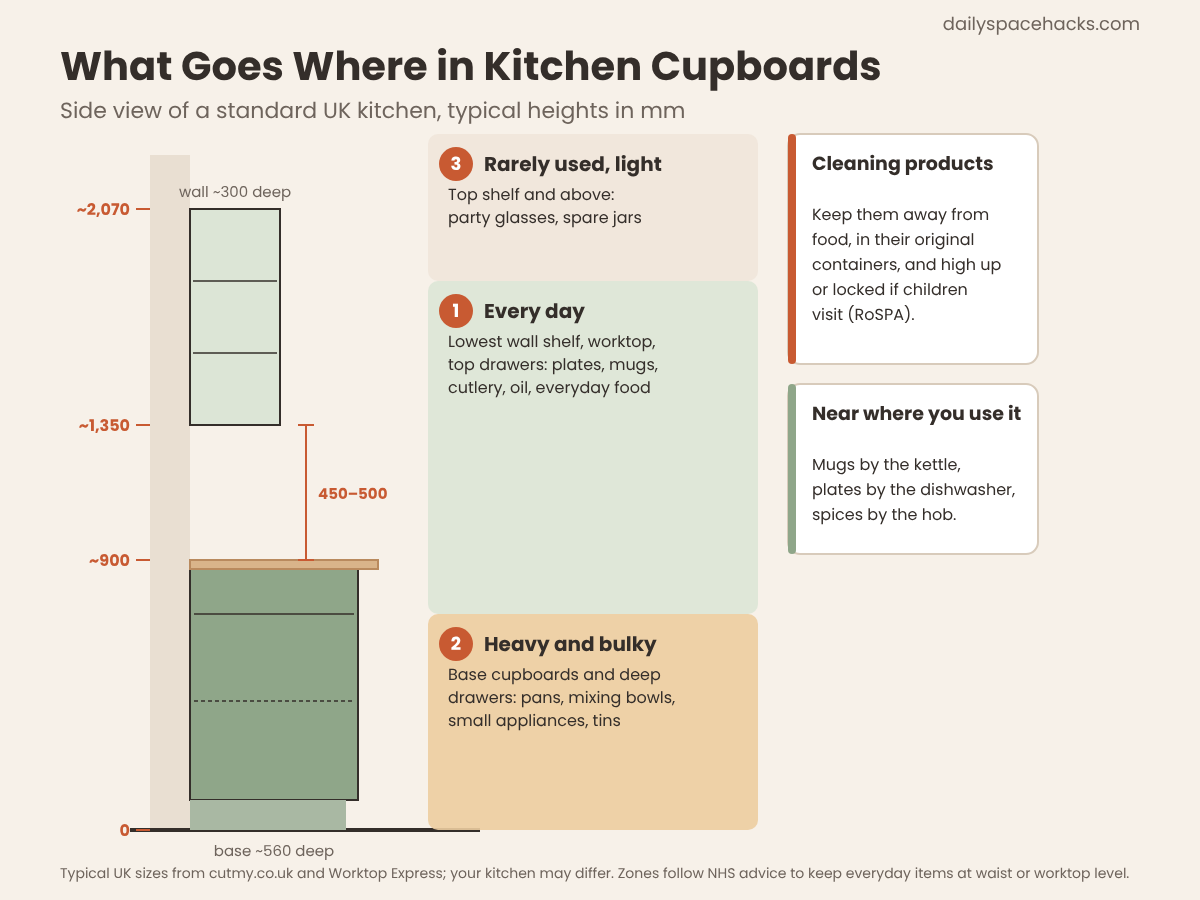
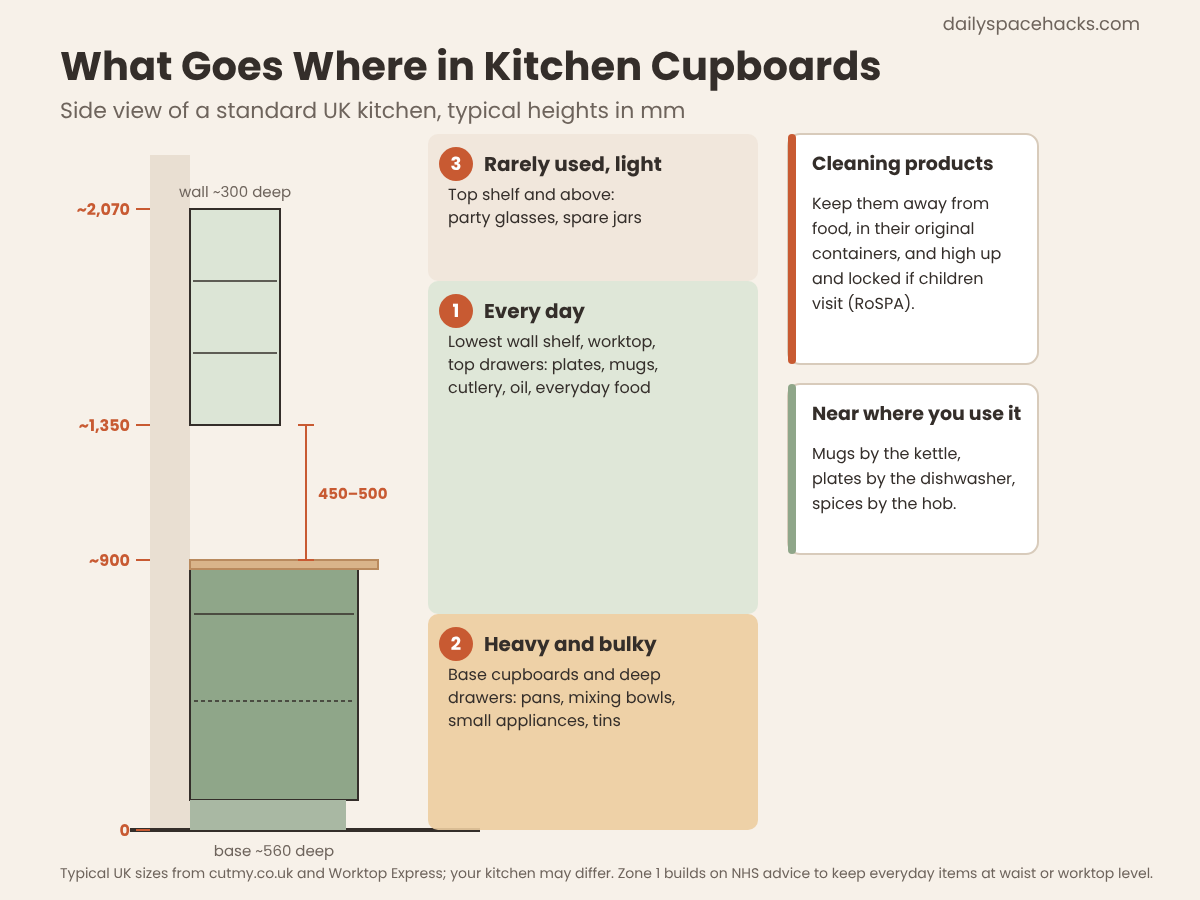
Schedule 3282 kitchen cupboards (UK, F1) Nov 2; pins CSV-63; robe images
Claude-Session: https://claude.ai/code/session_015bHY4eNJzsj1XRjde6uJvz

Changed region(s): [[0.6783, 0.2178, 0.8325, 0.3733], [0.6783, 0.4978, 0.8633, 0.5911], [0.555, 0.9644, 0.9558, 0.9956]]

diff --git a/tools/kitchen-cupboards/content.html b/tools/kitchen-cupboards/content.html
@@ -1,0 +1,181 @@
+<!-- wp:paragraph -->
+<p>To organise kitchen cupboards, empty one run of cupboards at a time, get rid of what you do not use, then put things back by height and by where you use them: everyday items between waist and shoulder height, heavy pans and appliances low down, and rarely used things on the top shelf. A shelf riser, a pan lid rack and a turntable fix most of the space problems, and the riser and lid holders below cost £7 and £12 at the time of writing.</p>
+<!-- /wp:paragraph -->
+
+<!-- wp:paragraph -->
+<p>Doing it properly takes about an afternoon in a typical small UK kitchen. Start with the diagram: it shows the standard heights most British kitchens are built to, and which zone each kind of item belongs in.</p>
+<!-- /wp:paragraph -->
+
+<!-- wp:image {"id":3276,"sizeSlug":"full","linkDestination":"none"} -->
+<figure class="wp-block-image size-full"><img src="https://dailyspacehacks.com/wp-content/uploads/2026/10/how-to-organise-kitchen-cupboards-01-organised-cupboards.jpg" alt="British kitchen with sage green Shaker base units, an oak worktop and open wall cupboards with glass jars, mugs, bowls on wire shelf risers and stacked plates" class="wp-image-3276"/></figure>
+<!-- /wp:image -->
+
+<!-- wp:heading -->
+<h2 class="wp-block-heading">Where Everything Should Go</h2>
+<!-- /wp:heading -->
+
+<!-- wp:paragraph -->
+<p>Most UK kitchens follow the same basic sizes. The standard worktop is <a href="https://www.worktop-express.co.uk/what-is-the-average-kitchen-worktop-height-and-depth/" target="_blank" rel="noopener">900mm</a> high, base units are about 560mm deep, and wall units are about 300mm deep and hung with their <a href="https://cutmy.co.uk/ideas-advice/kitchen-unit-sizes" target="_blank" rel="noopener">bottom edge 450-500mm above the worktop</a>, according to the kitchen supplier cutmy.co.uk. That puts the lowest wall shelf at roughly 1,350 to 1,400 mm from the floor, which makes it the easiest wall shelf to reach.</p>
+<!-- /wp:paragraph -->
+
+<!-- wp:html -->
+<figure class="dsh-diagram"><svg xmlns="http://www.w3.org/2000/svg" viewBox="0 0 1200 900" font-family="Poppins, sans-serif" role="img" aria-labelledby="kc-t kc-d"><title id="kc-t">Kitchen cupboard zones by height</title><desc id="kc-d">Side view of a standard UK kitchen wall with typical sizes. Worktop at about 900 mm. Base units about 560 mm deep below it. Wall units start about 450 to 500 mm above the worktop, so their bottom shelf sits at about 1350 to 1400 mm, and a 720 mm wall unit reaches about 2070 mm. Zone 1, everyday items: top drawers, the worktop and the lowest wall shelf, roughly between waist and shoulder height. Zone 2, heavy and bulky items: base cupboards and deep drawers. Zone 3, rarely used light items: the top wall shelf and above. Cleaning products high up and locked if children visit, away from food.</desc><rect width="1200" height="900" fill="#F7F1E9"/><text x="60" y="80" font-size="40" font-weight="700" fill="#342E2A">What Goes Where in Kitchen Cupboards</text><text x="60" y="118" font-size="22" fill="#6E645C">Side view of a standard UK kitchen, typical heights in mm</text><text x="1140" y="30" font-size="18" fill="#6E645C" text-anchor="end">dailyspacehacks.com</text><rect x="150" y="155.0" width="40" height="675.0" fill="#E9DFD2"/><line x1="130" y1="830" x2="480" y2="830" stroke="#342E2A" stroke-width="4"/><rect x="190" y="569.0" width="168.0" height="231.0" fill="#8FA689" stroke="#342E2A" stroke-width="2"/><rect x="190" y="800.0" width="156.0" height="30.0" fill="#A9B8A3"/><rect x="190" y="560.0" width="188.0" height="9.0" fill="#D9B48A" stroke="#B98A5E" stroke-width="2"/><line x1="194" y1="614.0" x2="354.0" y2="614.0" stroke="#342E2A" stroke-width="1.5"/><line x1="194" y1="701.0" x2="354.0" y2="701.0" stroke="#342E2A" stroke-width="1.5" stroke-dasharray="4 3"/><rect x="190" y="209.0" width="90.0" height="216.0" fill="#DCE5D6" stroke="#342E2A" stroke-width="2"/><line x1="193" y1="353.0" x2="277.0" y2="353.0" stroke="#342E2A" stroke-width="1.5"/><line x1="193" y1="281.0" x2="277.0" y2="281.0" stroke="#342E2A" stroke-width="1.5"/><rect x="428.0" y="134.0" width="330" height="147.0" rx="10" fill="#EFE6DA" opacity="0.9"/><circle cx="456.0" cy="164.0" r="17" fill="#C85A32"/><text x="456.0" y="170.0" font-size="18" font-weight="700" fill="#fff" text-anchor="middle">3</text><text x="484.0" y="171.0" font-size="20" font-weight="700" fill="#342E2A">Rarely used, light</text><text x="448.0" y="200.0" font-size="16" fill="#342E2A">Top shelf and above:</text><text x="448.0" y="223.0" font-size="16" fill="#342E2A">party glasses, spare jars</text><rect x="428.0" y="281.0" width="330" height="333.0" rx="10" fill="#DCE5D6" opacity="0.9"/><circle cx="456.0" cy="311.0" r="17" fill="#C85A32"/><text x="456.0" y="317.0" font-size="18" font-weight="700" fill="#fff" text-anchor="middle">1</text><text x="484.0" y="318.0" font-size="20" font-weight="700" fill="#342E2A">Every day</text><text x="448.0" y="347.0" font-size="16" fill="#342E2A">Lowest wall shelf, worktop,</text><text x="448.0" y="370.0" font-size="16" fill="#342E2A">top drawers: plates, mugs,</text><text x="448.0" y="393.0" font-size="16" fill="#342E2A">cutlery, oil, everyday food</text><rect x="428.0" y="614.0" width="330" height="216.0" rx="10" fill="#ECCDA0" opacity="0.9"/><circle cx="456.0" cy="644.0" r="17" fill="#C85A32"/><text x="456.0" y="650.0" font-size="18" font-weight="700" fill="#fff" text-anchor="middle">2</text><text x="484.0" y="651.0" font-size="20" font-weight="700" fill="#342E2A">Heavy and bulky</text><text x="448.0" y="680.0" font-size="16" fill="#342E2A">Base cupboards and deep</text><text x="448.0" y="703.0" font-size="16" fill="#342E2A">drawers: pans, mixing bowls,</text><text x="448.0" y="726.0" font-size="16" fill="#342E2A">small appliances, tins</text><line x1="136" y1="209.0" x2="150" y2="209.0" stroke="#C85A32" stroke-width="2"/><text x="130" y="215.0" font-size="16" font-weight="700" fill="#C85A32" text-anchor="end">~2,070</text><line x1="136" y1="425.0" x2="150" y2="425.0" stroke="#C85A32" stroke-width="2"/><text x="130" y="431.0" font-size="16" font-weight="700" fill="#C85A32" text-anchor="end">~1,350</text><line x1="136" y1="560.0" x2="150" y2="560.0" stroke="#C85A32" stroke-width="2"/><text x="130" y="566.0" font-size="16" font-weight="700" fill="#C85A32" text-anchor="end">~900</text><line x1="136" y1="830.0" x2="150" y2="830.0" stroke="#C85A32" stroke-width="2"/><text x="130" y="836.0" font-size="16" font-weight="700" fill="#C85A32" text-anchor="end">0</text><line x1="306.0" y1="425.0" x2="306.0" y2="560.0" stroke="#C85A32" stroke-width="2"/><line x1="298.0" y1="425.0" x2="314.0" y2="425.0" stroke="#C85A32" stroke-width="2"/><line x1="298.0" y1="560.0" x2="314.0" y2="560.0" stroke="#C85A32" stroke-width="2"/><text x="318.0" y="498.5" font-size="15" font-weight="700" fill="#C85A32">450–500</text><text x="274.0" y="856" font-size="15" fill="#6E645C" text-anchor="middle">base ~560 deep</text><text x="235.0" y="197.0" font-size="15" fill="#6E645C" text-anchor="middle">wall ~300 deep</text><rect x="788.0" y="134.0" width="250" height="230" rx="12" fill="#FFFFFF" stroke="#D8CBBB" stroke-width="2"/><rect x="788.0" y="134.0" width="8" height="230" rx="4" fill="#C85A32"/><text x="812.0" y="170.0" font-size="19" font-weight="700" fill="#342E2A">Cleaning products</text><text x="812.0" y="209.0" font-size="16" font-weight="400" fill="#342E2A">Keep them away from</text><text x="812.0" y="234.0" font-size="16" font-weight="400" fill="#342E2A">food, in their original</text><text x="812.0" y="259.0" font-size="16" font-weight="400" fill="#342E2A">containers, and high up</text><text x="812.0" y="284.0" font-size="16" font-weight="400" fill="#342E2A">and locked if children</text><text x="812.0" y="309.0" font-size="16" font-weight="400" fill="#342E2A">visit (RoSPA).</text><rect x="788.0" y="384.0" width="250" height="170" rx="12" fill="#FFFFFF" stroke="#D8CBBB" stroke-width="2"/><rect x="788.0" y="384.0" width="8" height="170" rx="4" fill="#8FA689"/><text x="812.0" y="420.0" font-size="19" font-weight="700" fill="#342E2A">Near where you use it</text><text x="812.0" y="459.0" font-size="16" font-weight="400" fill="#342E2A">Mugs by the kettle,</text><text x="812.0" y="484.0" font-size="16" font-weight="400" fill="#342E2A">plates by the dishwasher,</text><text x="812.0" y="509.0" font-size="16" font-weight="400" fill="#342E2A">spices by the hob.</text><text x="60" y="878" font-size="14" fill="#6E645C">Typical UK sizes from cutmy.co.uk and Worktop Express; your kitchen may differ. Zone 1 builds on NHS advice to keep everyday items at waist or worktop level.</text></svg><figcaption>Kitchen cupboard zones by height: everyday items in the middle, heavy items low, rarely used items high, cleaning products high or locked and away from food.</figcaption></figure>
+<!-- /wp:html -->
+
+<!-- wp:paragraph -->
+<p>The rule behind the zones is simple. An NHS occupational therapy leaflet advises people to <a href="https://www.ouh.nhs.uk/media/lkonor55/115811kitchen.pdf" target="_blank" rel="noopener">store everyday items at waist or countertop level</a>, and Ireland's Health and Safety Authority, in its workplace manual handling guidance, recommends keeping <a href="https://hsa.ie/eng/education/managing_safety_and_health_in_schools/new_guidelines_files/manual-handling-no-13.pdf" target="_blank" rel="noopener">heavier items</a> on middle shelves rather than on the floor or above shoulder height. Plates you use three times a day should never need a step stool.</p>
+<!-- /wp:paragraph -->
+
+<!-- wp:heading -->
+<h2 class="wp-block-heading">Step 1: Empty One Run of Cupboards at a Time</h2>
+<!-- /wp:heading -->
+
+<!-- wp:paragraph -->
+<p>When you organise kitchen cupboards, do not empty the whole kitchen at once, or you will still be surrounded by saucepans at dinner time. Pick one run, such as the wall cupboards above the kettle, take everything out and wipe the shelves. Check the shelf pins while the cupboard is empty: moving an adjustable shelf up or down a few holes is often all you need to fit an extra row of mugs.</p>
+<!-- /wp:paragraph -->
+
+<!-- wp:heading -->
+<h2 class="wp-block-heading">Step 2: Sort Into Groups and Let Go</h2>
+<!-- /wp:heading -->
+
+<!-- wp:image {"id":3277,"sizeSlug":"full","linkDestination":"none"} -->
+<figure class="wp-block-image size-full"><img src="https://dailyspacehacks.com/wp-content/uploads/2026/10/how-to-organise-kitchen-cupboards-02-sorted-worktop.jpg" alt="Oak worktop with the contents of a kitchen cupboard sorted into groups and a give-away box, in front of an empty open cupboard" class="wp-image-3277"/></figure>
+<!-- /wp:image -->
+
+<!-- wp:paragraph -->
+<p>Put everything on the worktop in groups: food, crockery, baking and roasting trays, gadgets, and a box for things to give away. Professional organiser Vicky Silverthorn told Ideal Home the point is to <a href="https://www.idealhome.co.uk/kitchen/kitchen-ideas/how-to-organise-kitchen-cabinets-288669" target="_blank" rel="noopener">see what you have, what you actually use</a>. Duplicates, chipped mugs, the third garlic press and gadgets you have not touched for a year can go. Check dates on food as you sort. GOV.UK explains that a best before date is about quality, while a use by date means the food is <a href="https://www.gov.uk/understanding-food-labelling/best-before-and-use-by-dates" target="_blank" rel="noopener">no longer safe to eat</a> after it.</p>
+<!-- /wp:paragraph -->
+
+<!-- wp:heading -->
+<h2 class="wp-block-heading">Step 3: Give Every Group a Home Near Where You Use It</h2>
+<!-- /wp:heading -->
+
+<!-- wp:paragraph -->
+<p>Zoning means storing things next to the job they are used for. Kitchen Door Workshop suggests you <a href="https://www.kitchendoorworkshop.co.uk/news/organise-your-kitchen-5-zones/" target="_blank" rel="noopener">store your crockery and glassware close to your sink or dishwasher</a>, and organiser Kathryn Lord told Ideal Home to keep herbs and spices near the hob. In a typical small kitchen that gives you four zones:</p>
+<!-- /wp:paragraph -->
+
+<!-- wp:list -->
+<ul class="wp-block-list"><!-- wp:list-item -->
+<li><strong>Washing up:</strong> plates, bowls and glasses in the wall cupboard nearest the dishwasher or sink.</li>
+<!-- /wp:list-item -->
+<!-- wp:list-item -->
+<li><strong>Cooking:</strong> pans, oils, utensils and spices next to the hob and oven.</li>
+<!-- /wp:list-item -->
+<!-- wp:list-item -->
+<li><strong>Prep:</strong> chopping boards, knives, mixing bowls and scales by your longest stretch of worktop.</li>
+<!-- /wp:list-item -->
+<!-- wp:list-item -->
+<li><strong>Drinks:</strong> mugs, tea, coffee and the sugar above or beside the kettle.</li>
+<!-- /wp:list-item --></ul>
+<!-- /wp:list -->
+
+<!-- wp:paragraph -->
+<p>For smaller items in the top drawers, our guide to <a href="https://dailyspacehacks.com/how-to-organize-kitchen-drawers/">organising kitchen drawers</a> shows how to divide cutlery and utensils.</p>
+<!-- /wp:paragraph -->
+
+<!-- wp:heading -->
+<h2 class="wp-block-heading">Step 4: Put Heavy Things Low</h2>
+<!-- /wp:heading -->
+
+<!-- wp:image {"id":3278,"sizeSlug":"full","linkDestination":"none"} -->
+<figure class="wp-block-image size-full"><img src="https://dailyspacehacks.com/wp-content/uploads/2026/10/how-to-organise-kitchen-cupboards-03-pan-drawer.jpg" alt="Deep pan drawer with nested saucepans, an upright frying pan and glass lids in a wire lid rack" class="wp-image-3278"/></figure>
+<!-- /wp:image -->
+
+<!-- wp:paragraph -->
+<p>Saucepans, casserole dishes, the slow cooker and bags of potatoes belong in the base cupboards or deep drawers. Nest saucepans by size and stand frying pans or lids upright so you can lift one out without moving the rest. A set of three <a href="https://www.dunelm.com/product/joseph-joseph-set-of-3-pan-lid-holders-1000295274" target="_blank" rel="noopener">pan lid holders costs £12 at Dunelm</a> and can be fixed inside a cupboard door or a deep drawer; measure the gap between the door and the shelves before you fit anything to a door, so it still closes. If plastic tubs are the problem, our guide on <a href="https://dailyspacehacks.com/how-to-organize-tupperware/">how to organise food containers</a> sorts out the lids.</p>
+<!-- /wp:paragraph -->
+
+<!-- wp:heading -->
+<h2 class="wp-block-heading">Step 5: Double the Height of Your Shelves</h2>
+<!-- /wp:heading -->
+
+<!-- wp:paragraph -->
+<p>Most cupboard shelves waste the space above a single stack of plates. A shelf riser creates a second level, so bowls sit above the plates instead of on top of them. IKEA UK lists a VARIERA <a href="https://www.ikea.com/gb/en/p/-80542961/" target="_blank" rel="noopener">shelf insert for £7</a> at 45.5 x 29 x 16 cm. Measure the inside depth of your wall cupboards first: standard units are about 300mm deep from the outside, so a 29 cm insert may not fit. IKEA sells smaller sizes too, so check the depth before you buy. Tins can go on a stepped riser so you can read every label at once.</p>
+<!-- /wp:paragraph -->
+
+<!-- wp:heading -->
+<h2 class="wp-block-heading">Step 6: Fix the Corner Cupboard</h2>
+<!-- /wp:heading -->
+
+<!-- wp:image {"id":3279,"sizeSlug":"full","linkDestination":"none"} -->
+<figure class="wp-block-image size-full"><img src="https://dailyspacehacks.com/wp-content/uploads/2026/10/how-to-organise-kitchen-cupboards-04-turntable-riser.jpg" alt="Turntable holding oil bottles and jars next to a two-tier wire riser with tins inside a kitchen cupboard" class="wp-image-3279"/></figure>
+<!-- /wp:image -->
+
+<!-- wp:paragraph -->
+<p>Blind corner cupboards are where things get lost. The cheapest fix is a turntable on the shelf, which brings bottles and jars from the back to the front with a spin. If you are willing to spend more, Magnet explains the options: carousels, Le Mans units with two kidney-shaped shelves that glide out, and magic corners that pull the back shelves forward, with carousel baskets that <a href="https://www.magnet.co.uk/blog/kitchen-corner-unit-ideas/" target="_blank" rel="noopener">typically</a> take up to 25 kg each. As a price guide, IKEA's UTRUSTA corner carousel is <a href="https://www.ikea.com/gb/en/p/-20596787/" target="_blank" rel="noopener">£90</a> and fits IKEA's own METOD 88 x 60 cm corner base unit. For deep shelves and tall food cupboards, see our guide to <a href="https://dailyspacehacks.com/how-to-organize-a-pantry-with-deep-shelves/">organising a pantry with deep shelves</a>.</p>
+<!-- /wp:paragraph -->
+
+<!-- wp:heading -->
+<h2 class="wp-block-heading">Step 7: Keep Food in Date and Cleaning Products Apart</h2>
+<!-- /wp:heading -->
+
+<!-- wp:paragraph -->
+<p>Put new food behind the old so the oldest gets used first. It matters more than it sounds: WRAP estimates, using 2021 data, that food waste <a href="https://wrap.ngo/media-centre/press-releases/urgent-action-needed-scale-tackle-food-waste-our-homes" target="_blank" rel="noopener">costs a four-person household around £1,000 per year</a>. Clear, square containers for pasta, rice and cereal save space and show you when you are running low; our <a href="https://dailyspacehacks.com/pantry-organization-ideas/">pantry organisation ideas</a> have more ways to store dry food.</p>
+<!-- /wp:paragraph -->
+
+<!-- wp:paragraph -->
+<p>Cleaning products do not belong next to food. RoSPA advises keeping household chemicals, including laundry capsules, <a href="https://rospa.com/Keeping-Kids-Safe-Hub/Poisoning" target="_blank" rel="noopener">out of the sight and reach of children</a>, ideally high up in a locked cupboard, and always in their original containers. If you have space, move them out of the kitchen altogether; our <a href="https://dailyspacehacks.com/small-utility-room-ideas/">small utility room ideas</a> show where they can go instead.</p>
+<!-- /wp:paragraph -->
+
+<!-- wp:heading -->
+<h2 class="wp-block-heading">The Result</h2>
+<!-- /wp:heading -->
+
+<!-- wp:image {"id":3280,"sizeSlug":"full","linkDestination":"none"} -->
+<figure class="wp-block-image size-full"><img src="https://dailyspacehacks.com/wp-content/uploads/2026/10/how-to-organise-kitchen-cupboards-05-before-after.jpg" alt="Before and after of the same kitchen wall cupboards: crammed and mismatched, then tidy with jars, a row of mugs and bowls on risers above plates" class="wp-image-3280"/></figure>
+<!-- /wp:image -->
+
+<!-- wp:paragraph -->
+<p>This illustration shows the steps above applied to two wall cupboards: the mugs are in one row, dry food is in matching jars, and shelf risers put the bowls above the plates.</p>
+<!-- /wp:paragraph -->
+
+<!-- wp:heading -->
+<h2 class="wp-block-heading">If Your Kitchen Is Different</h2>
+<!-- /wp:heading -->
+
+<!-- wp:list -->
+<ul class="wp-block-list"><!-- wp:list-item -->
+<li><strong>No wall cupboards:</strong> use open shelves for everyday plates and glasses, and keep the base cupboards for everything else.</li>
+<!-- /wp:list-item -->
+<!-- wp:list-item -->
+<li><strong>Renting:</strong> shelf risers, turntables and freestanding lid racks all go in without screws.</li>
+<!-- /wp:list-item -->
+<!-- wp:list-item -->
+<li><strong>Very small kitchen:</strong> move rarely used items, such as the roasting tin or party glasses, to another room, and use the walls; our <a href="https://dailyspacehacks.com/kitchen-storage-ideas/">kitchen storage ideas</a> and <a href="https://dailyspacehacks.com/kitchen-counter-organization/">worktop organisation tips</a> help.</li>
+<!-- /wp:list-item -->
+<!-- wp:list-item -->
+<li><strong>In the US?</strong> Our guide to <a href="https://dailyspacehacks.com/how-to-organize-kitchen-cabinets/">organizing kitchen cabinets</a> uses American sizes.</li>
+<!-- /wp:list-item --></ul>
+<!-- /wp:list -->
+
+<!-- wp:heading -->
+<h2 class="wp-block-heading">Kitchen Cupboard Questions</h2>
+<!-- /wp:heading -->
+
+<!-- wp:heading {"level":3} -->
+<h3 class="wp-block-heading">What is the best way to organise kitchen cupboards?</h3>
+<!-- /wp:heading -->
+
+<!-- wp:paragraph -->
+<p>The best way to organise kitchen cupboards is to store things by how often you use them and where you use them. Keep everyday items between waist and shoulder height near the sink, hob or kettle, heavy pans in base cupboards, and rarely used things on the top shelf. Then add shelf risers and a turntable so nothing is hidden behind something else.</p>
+<!-- /wp:paragraph -->
+
+<!-- wp:heading {"level":3} -->
+<h3 class="wp-block-heading">What should not be stored in kitchen cupboards?</h3>
+<!-- /wp:heading -->
+
+<!-- wp:paragraph -->
+<p>Keep cleaning chemicals and laundry capsules away from food, ideally high up in a locked cupboard if children visit. Do not store heavy items above shoulder height. Food that says keep refrigerated after opening belongs in the fridge, which GOV.UK says should be at 5°C or below, not back in the cupboard.</p>
+<!-- /wp:paragraph -->
+
+<!-- wp:heading {"level":3} -->
+<h3 class="wp-block-heading">How do I organise a kitchen with no space?</h3>
+<!-- /wp:heading -->
+
+<!-- wp:paragraph -->
+<p>Start by removing anything you use less than once a month and storing it elsewhere. Then use height: shelf risers in wall cupboards, lids on a rack, pans nested by size. A turntable in a corner cupboard and hooks under a shelf add space without building anything.</p>
+<!-- /wp:paragraph -->
+
+<!-- wp:paragraph {"className":"dsh-ai-note","fontSize":"small"} -->
+<p class="dsh-ai-note has-small-font-size"><em>How this guide was made: researched and written with the help of AI tools, fact-checked against trusted sources and published by Mohamed Elber. Images are AI-generated illustrations. See our <a href="https://dailyspacehacks.com/editorial-policy/">Editorial Policy</a>.</em></p>
+<!-- /wp:paragraph -->

diff --git a/tools/kitchen-cupboards/build.py b/tools/kitchen-cupboards/build.py
@@ -17,17 +17,17 @@ SRC={
 "kdw":"https://www.kitchendoorworkshop.co.uk/news/organise-your-kitchen-5-zones/"}
 def SR(k,t): return ext(SRC[k],t)
 
-p(f"To organise kitchen cupboards, empty one run of cupboards at a time, get rid of what you do not use, then put things back by height and by where you use them: everyday items between waist and shoulder height, heavy pans and appliances low down, and rarely used things on the top shelf. A shelf riser, a pan lid rack and a turntable fix most of the space problems, and none of them costs more than about £12.")
-p("The steps below take an afternoon for a typical small UK kitchen. Start with the diagram: it shows the standard heights most British kitchens are built to, and which zone each kind of item belongs in.")
+p(f"To organise kitchen cupboards, empty one run of cupboards at a time, get rid of what you do not use, then put things back by height and by where you use them: everyday items between waist and shoulder height, heavy pans and appliances low down, and rarely used things on the top shelf. A shelf riser, a pan lid rack and a turntable fix most of the space problems, and the riser and lid holders below cost £7 and £12 at the time of writing.")
+p("Doing it properly takes about an afternoon in a typical small UK kitchen. Start with the diagram: it shows the standard heights most British kitchens are built to, and which zone each kind of item belongs in.")
 img(1)
 
 h2("Where Everything Should Go")
-p(f"Most UK kitchens follow the same basic sizes. The standard worktop is {SR('we','900mm')} high, base units are about 560 mm deep, and wall units are about 300 mm deep and hung with their {SR('cut','bottom edge 450-500mm above the worktop')}, according to the kitchen supplier cutmy.co.uk. That puts the lowest wall shelf at roughly 1,350 to 1,400 mm from the floor, which is the easiest shelf in the room to reach.")
+p(f"Most UK kitchens follow the same basic sizes. The standard worktop is {SR('we','900mm')} high, base units are about 560mm deep, and wall units are about 300mm deep and hung with their {SR('cut','bottom edge 450-500mm above the worktop')}, according to the kitchen supplier cutmy.co.uk. That puts the lowest wall shelf at roughly 1,350 to 1,400 mm from the floor, which makes it the easiest wall shelf to reach.")
 diagram(open('z.svg').read(),"Kitchen cupboard zones by height: everyday items in the middle, heavy items low, rarely used items high, cleaning products high or locked and away from food.")
-p(f"The rule behind the zones is simple. An NHS occupational therapy leaflet advises people to {SR('nhs','store everyday items at waist or countertop level')}, and Ireland's Health and Safety Authority recommends keeping {SR('hsa','heavier items')} on middle shelves rather than on the floor or above shoulder height. Plates you use three times a day should never need a step stool.")
+p(f"The rule behind the zones is simple. An NHS occupational therapy leaflet advises people to {SR('nhs','store everyday items at waist or countertop level')}, and Ireland's Health and Safety Authority, in its workplace manual handling guidance, recommends keeping {SR('hsa','heavier items')} on middle shelves rather than on the floor or above shoulder height. Plates you use three times a day should never need a step stool.")
 
 h2("Step 1: Empty One Run of Cupboards at a Time")
-p("Do not empty the whole kitchen at once, or you will still be surrounded by saucepans at dinner time. Pick one run, such as the wall cupboards above the kettle, take everything out and wipe the shelves. Check the shelf pins while the cupboard is empty: moving an adjustable shelf up or down a few holes is often all you need to fit an extra row of mugs.")
+p("When you organise kitchen cupboards, do not empty the whole kitchen at once, or you will still be surrounded by saucepans at dinner time. Pick one run, such as the wall cupboards above the kettle, take everything out and wipe the shelves. Check the shelf pins while the cupboard is empty: moving an adjustable shelf up or down a few holes is often all you need to fit an extra row of mugs.")
 
 h2("Step 2: Sort Into Groups and Let Go")
 img(2)
@@ -46,19 +46,19 @@ img(3)
 p(f"Saucepans, casserole dishes, the slow cooker and bags of potatoes belong in the base cupboards or deep drawers. Nest saucepans by size and stand frying pans or lids upright so you can lift one out without moving the rest. A set of three {SR('dun','pan lid holders costs £12 at Dunelm')} and can be fixed inside a cupboard door or a deep drawer; measure the gap between the door and the shelves before you fit anything to a door, so it still closes. If plastic tubs are the problem, our guide on {a('how-to-organize-tupperware','how to organise food containers')} sorts out the lids.")
 
 h2("Step 5: Double the Height of Your Shelves")
-p(f"Most cupboard shelves waste the space above a single stack of plates. A shelf riser creates a second level, so bowls sit above the plates instead of on top of them. IKEA UK lists a VARIERA {SR('var','shelf insert for £7')} at 45.5 x 29 x 16 cm, with smaller sizes available. Measure the inside depth of your wall cupboards first, because many are only about 300 mm deep from the outside. Tins can go on a stepped riser so you can read every label at once.")
+p(f"Most cupboard shelves waste the space above a single stack of plates. A shelf riser creates a second level, so bowls sit above the plates instead of on top of them. IKEA UK lists a VARIERA {SR('var','shelf insert for £7')} at 45.5 x 29 x 16 cm. Measure the inside depth of your wall cupboards first: standard units are about 300mm deep from the outside, so a 29 cm insert may not fit. IKEA sells smaller sizes too, so check the depth before you buy. Tins can go on a stepped riser so you can read every label at once.")
 
 h2("Step 6: Fix the Corner Cupboard")
 img(4)
-p(f"Blind corner cupboards are where things get lost. The cheapest fix is a turntable on the shelf, which brings bottles and jars from the back to the front with a spin. If you are willing to spend more, Magnet explains the options: carousels, LeMans units with two kidney-shaped shelves that swing out, and magic corners that pull the back shelves forward, with carousel baskets that {SR('mag','typically')} take up to 25 kg each. As a price guide, IKEA's UTRUSTA corner carousel is {SR('utr','£90')} and fits its own METOD corner base cabinet. For deep shelves and tall food cupboards, see our guide to {a('how-to-organize-a-pantry-with-deep-shelves','organising a pantry with deep shelves')}.")
+p(f"Blind corner cupboards are where things get lost. The cheapest fix is a turntable on the shelf, which brings bottles and jars from the back to the front with a spin. If you are willing to spend more, Magnet explains the options: carousels, Le Mans units with two kidney-shaped shelves that glide out, and magic corners that pull the back shelves forward, with carousel baskets that {SR('mag','typically')} take up to 25 kg each. As a price guide, IKEA's UTRUSTA corner carousel is {SR('utr','£90')} and fits IKEA's own METOD 88 x 60 cm corner base unit. For deep shelves and tall food cupboards, see our guide to {a('how-to-organize-a-pantry-with-deep-shelves','organising a pantry with deep shelves')}.")
 
 h2("Step 7: Keep Food in Date and Cleaning Products Apart")
-p(f"Put new food behind the old so the oldest gets used first. It matters more than it sounds: WRAP estimates food waste {SR('wrap','costs a four-person household around £1,000 per year')}. Clear, square containers for pasta, rice and cereal save space and show you when you are running low; our {a('pantry-organization-ideas','pantry organisation ideas')} have more ways to store dry food.")
+p(f"Put new food behind the old so the oldest gets used first. It matters more than it sounds: WRAP estimates, using 2021 data, that food waste {SR('wrap','costs a four-person household around £1,000 per year')}. Clear, square containers for pasta, rice and cereal save space and show you when you are running low; our {a('pantry-organization-ideas','pantry organisation ideas')} have more ways to store dry food.")
 p(f"Cleaning products do not belong next to food. RoSPA advises keeping household chemicals, including laundry capsules, {SR('rospa','out of the sight and reach of children')}, ideally high up in a locked cupboard, and always in their original containers. If you have space, move them out of the kitchen altogether; our {a('small-utility-room-ideas','small utility room ideas')} show where they can go instead.")
 
 h2("The Result")
 img(5)
-p("The before and after shows the same two wall cupboards. Nothing new was bought apart from two shelf risers: the mugs moved to one row, the food went into matching jars on the top shelf, and the bowls went above the plates.")
+p("This illustration shows the steps above applied to two wall cupboards: the mugs are in one row, dry food is in matching jars, and shelf risers put the bowls above the plates.")
 
 h2("If Your Kitchen Is Different")
 lst(["<strong>No wall cupboards:</strong> use open shelves for everyday plates and glasses, and keep the base cupboards for everything else.",
@@ -68,9 +68,9 @@ lst(["<strong>No wall cupboards:</strong> use open shelves for everyday plates a
 
 h2("Kitchen Cupboard Questions")
 h3("What is the best way to organise kitchen cupboards?")
-p("Store things by how often you use them and where you use them. Keep everyday items between waist and shoulder height near the sink, hob or kettle, heavy pans in base cupboards, and rarely used things on the top shelf. Then add shelf risers and a turntable so nothing is hidden behind something else.")
+p("The best way to organise kitchen cupboards is to store things by how often you use them and where you use them. Keep everyday items between waist and shoulder height near the sink, hob or kettle, heavy pans in base cupboards, and rarely used things on the top shelf. Then add shelf risers and a turntable so nothing is hidden behind something else.")
 h3("What should not be stored in kitchen cupboards?")
-p("Keep cleaning chemicals and laundry capsules away from food, high up or locked if children visit. Do not store heavy items above shoulder height. Food that says keep refrigerated after opening belongs in the fridge, which GOV.UK says should be at 5°C or below, not back in the cupboard.")
+p("Keep cleaning chemicals and laundry capsules away from food, ideally high up in a locked cupboard if children visit. Do not store heavy items above shoulder height. Food that says keep refrigerated after opening belongs in the fridge, which GOV.UK says should be at 5°C or below, not back in the cupboard.")
 h3("How do I organise a kitchen with no space?")
 p("Start by removing anything you use less than once a month and storing it elsewhere. Then use height: shelf risers in wall cupboards, lids on a rack, pans nested by size. A turntable in a corner cupboard and hooks under a shelf add space without building anything.")
 ai_note()

diff --git a/tools/kitchen-cupboards/svg.py b/tools/kitchen-cupboards/svg.py
@@ -6,7 +6,7 @@ def Y(mm): return FL-mm*k
 desc=(f"Side view of a standard UK kitchen wall with typical sizes. Worktop at about 900 mm. Base units about 560 mm deep below it. "
 f"Wall units start about 450 to 500 mm above the worktop, so their bottom shelf sits at about {WB} to {WT+500} mm, and a 720 mm wall unit reaches about {WTOP} mm. "
 "Zone 1, everyday items: top drawers, the worktop and the lowest wall shelf, roughly between waist and shoulder height. "
-"Zone 2, heavy and bulky items: base cupboards and deep drawers. Zone 3, rarely used light items: the top wall shelf and above. Cleaning products in a high or locked cupboard away from food.")
+"Zone 2, heavy and bulky items: base cupboards and deep drawers. Zone 3, rarely used light items: the top wall shelf and above. Cleaning products high up and locked if children visit, away from food.")
 a(f'<svg xmlns="http://www.w3.org/2000/svg" viewBox="0 0 1200 900" font-family="Poppins, sans-serif" role="img" aria-labelledby="kc-t kc-d"><title id="kc-t">Kitchen cupboard zones by height</title><desc id="kc-d">{desc}</desc>')
 a(f'<rect width="1200" height="900" fill="{BG}"/>')
 a(f'<text x="60" y="80" font-size="40" font-weight="700" fill="{T}">What Goes Where in Kitchen Cupboards</text>')
@@ -51,12 +51,12 @@ a(f'<text x="{WALL+WD/2}" y="{Y(WTOP)-12}" font-size="15" fill="{G}" text-anchor
 cx=ZX+ZW+30
 a(f'<rect x="{cx}" y="{Y(WTOP+250)}" width="250" height="230" rx="12" fill="#FFFFFF" stroke="{BR}" stroke-width="2"/>')
 a(f'<rect x="{cx}" y="{Y(WTOP+250)}" width="8" height="230" rx="4" fill="{A}"/>')
-for i,l in enumerate(['Cleaning products','','Keep them away from','food, in their original','containers, and high up','or locked if children','visit (RoSPA).']):
-    a(f'<text x="{cx+24}" y="{Y(WTOP+250)+36+i*25}" font-size="{19 if i==0 else 16}" font-weight="{700 if i==0 else 400}" fill="{T}">{l}</text>')
+for i,l in enumerate(['Cleaning products','Keep them away from','food, in their original','containers, and high up','and locked if children','visit (RoSPA).']):
+    a(f'<text x="{cx+24}" y="{Y(WTOP+250)+36+i*25+(14 if i else 0)}" font-size="{19 if i==0 else 16}" font-weight="{700 if i==0 else 400}" fill="{T}">{l}</text>')
 a(f'<rect x="{cx}" y="{Y(WTOP+250)+250}" width="250" height="170" rx="12" fill="#FFFFFF" stroke="{BR}" stroke-width="2"/>')
 a(f'<rect x="{cx}" y="{Y(WTOP+250)+250}" width="8" height="170" rx="4" fill="{SG}"/>')
-for i,l in enumerate(['Near where you use it','','Mugs by the kettle,','plates by the dishwasher,','spices by the hob.']):
-    a(f'<text x="{cx+24}" y="{Y(WTOP+250)+286+i*25}" font-size="{19 if i==0 else 16}" font-weight="{700 if i==0 else 400}" fill="{T}">{l}</text>')
-a(f'<text x="60" y="878" font-size="14" fill="{G}">Typical UK sizes from cutmy.co.uk and Worktop Express; your kitchen may differ. Zones follow NHS advice to keep everyday items at waist or worktop level.</text>')
+for i,l in enumerate(['Near where you use it','Mugs by the kettle,','plates by the dishwasher,','spices by the hob.']):
+    a(f'<text x="{cx+24}" y="{Y(WTOP+250)+286+i*25+(14 if i else 0)}" font-size="{19 if i==0 else 16}" font-weight="{700 if i==0 else 400}" fill="{T}">{l}</text>')
+a(f'<text x="60" y="878" font-size="14" fill="{G}">Typical UK sizes from cutmy.co.uk and Worktop Express; your kitchen may differ. Zone 1 builds on NHS advice to keep everyday items at waist or worktop level.</text>')
 a('</svg>')
 open('z.svg','w').write(''.join(s))

diff --git a/tools/kitchen-cupboards/pins.py b/tools/kitchen-cupboards/pins.py
@@ -1,0 +1,17 @@
+import sys,os; sys.path.insert(0,'/home/claude/dsh-pins'); os.chdir('/home/claude/dsh-pins')
+from PIL import Image
+from pinh2 import pin_cozy
+O='src/kitchen-cupboards/pins/'; T='tools/cozy/tiles/'; os.makedirs(O,exist_ok=True)
+def cr(src,box,name):
+    p=T+name; im=Image.open(src).convert('RGB'); w,h=im.size
+    im.crop((int(box[0]*w),int(box[1]*h),int(box[2]*w),int(box[3]*h))).save(p); return p
+s='src/kitchen-cupboards/how-to-organise-kitchen-cupboards-'
+H=s+'01-organised-cupboards.jpg'; S=s+'02-sorted-worktop.jpg'; P=s+'03-pan-drawer.jpg'; C=s+'04-turntable-riser.jpg'; BA=s+'05-before-after.jpg'
+PIN=cr('gen/out/kitchen-cupboards/07-pin.png',(0,0,1,1),'kc-pin.png')
+AF=cr(BA,(.5,0,1,.6),'kc-after.png'); BF=cr(BA,(0,0,.5,.6),'kc-before.png')
+pin_cozy([cr(H,(0,0,.5,1),'kc-hl.png'),PIN,cr(H,(.5,0,1,1),'kc-hr.png'),S,P,C,BF,AF,cr(H,(.25,0,.75,.5),'kc-shelf.png')],'7','Steps','How to Organise','Kitchen Cupboards',"what goes where\nin a UK kitchen",
+ ['','','','Sort into groups','Pans low, lids upright','Turntable and riser','Before','After','Bowls above plates'],O+'kc-cozy.jpg',seed=441)
+pin_cozy([BF,cr(PIN,(0,.3,1,1),'kc-pl.png'),AF,C,P,cr(H,(.25,0,.75,.5),'kc-shelf2.png'),S,H,cr(S,(.5,0,1,1),'kc-s2.png')],'7','Easy Steps','Kitchen Cupboard','Organisation',"shelf risers, lid racks\nand zones that work",
+ ['','','','Spin the corner','Nest the saucepans','Shelf riser for bowls','Empty and sort first','Jars on the top shelf','Give-away box'],O+'kc-cozy2.jpg',seed=449)
+a=Image.open(O+'kc-cozy.jpg').resize((500,750)); b=Image.open(O+'kc-cozy2.jpg').resize((500,750))
+c=Image.new('RGB',(1010,750),'white'); c.paste(a,(0,0)); c.paste(b,(510,0)); c.save('/tmp/claude-0/-home-claude/aa9f44c6-b1c7-520d-9978-96402d6712cc/scratchpad/kc-pins.jpg')
